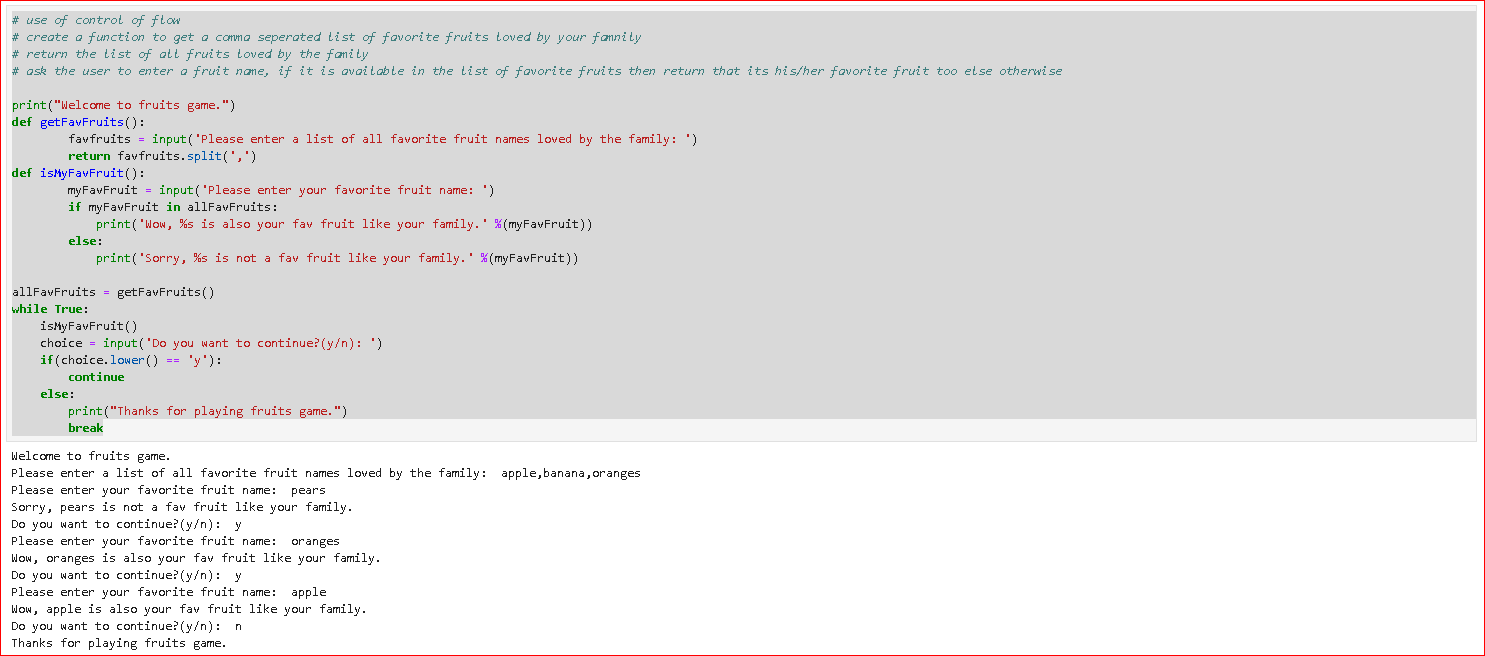
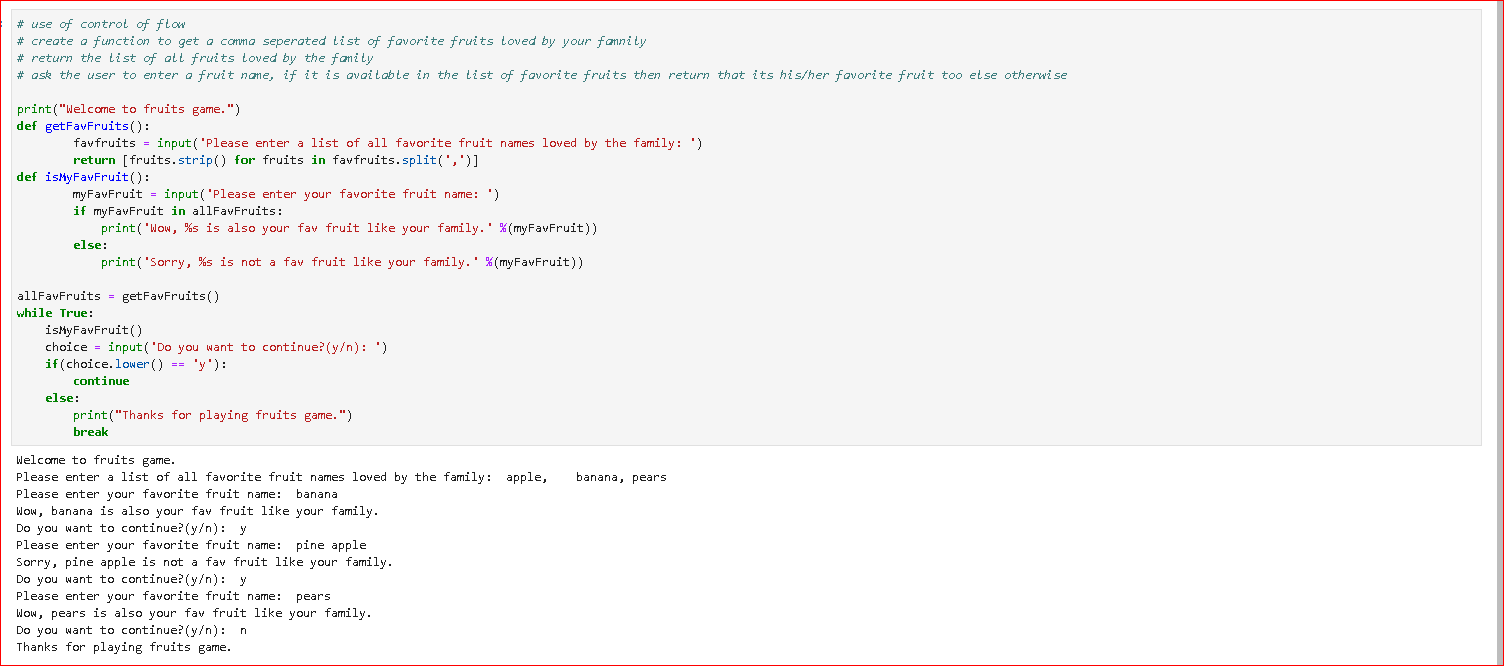
Added docs and code for control of flow update 06

diff --git a/Python 101/008-ControlOfFlow/01-Basics-ControlOfFlow.py b/Python 101/008-ControlOfFlow/01-Basics-ControlOfFlow.py
@@ -119,7 +119,7 @@ print('My name is %s and i am %2.2f years old' %(str(name),float(age)))
 print("Welcome to fruits game.")
 def getFavFruits():
         favfruits = input('Please enter a list of all favorite fruit names loved by the family: ')
-        return favfruits.split(',')
+        return [fruits.strip() for fruits in favfruits.split(',')] 
 def isMyFavFruit():
         myFavFruit = input('Please enter your favorite fruit name: ')
         if myFavFruit in allFavFruits:

diff --git a/Python 101/008-ControlOfFlow/README.md b/Python 101/008-ControlOfFlow/README.md
@@ -139,7 +139,7 @@
     print("Welcome to fruits game.")
     def getFavFruits():
             favfruits = input('Please enter a list of all favorite fruit names loved by the family: ')
-            return favfruits.split(',')
+            return [fruits.strip() for fruits in favfruits.split(',')] 
     def isMyFavFruit():
             myFavFruit = input('Please enter your favorite fruit name: ')
             if myFavFruit in allFavFruits:
